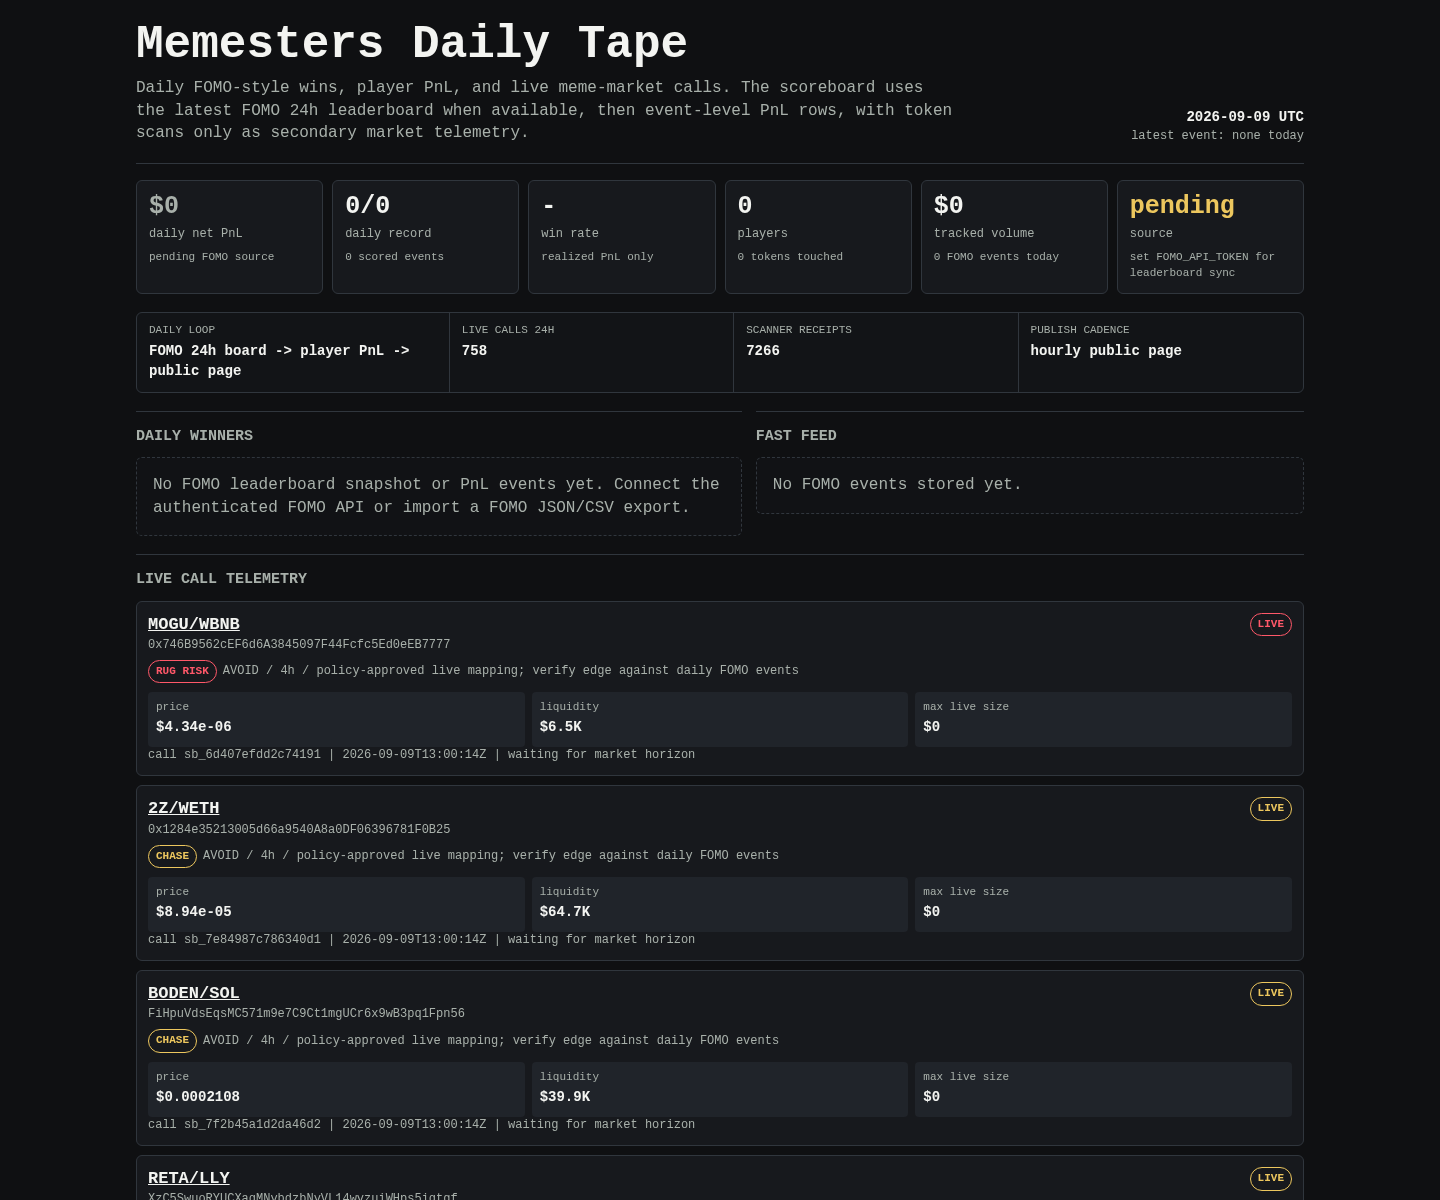
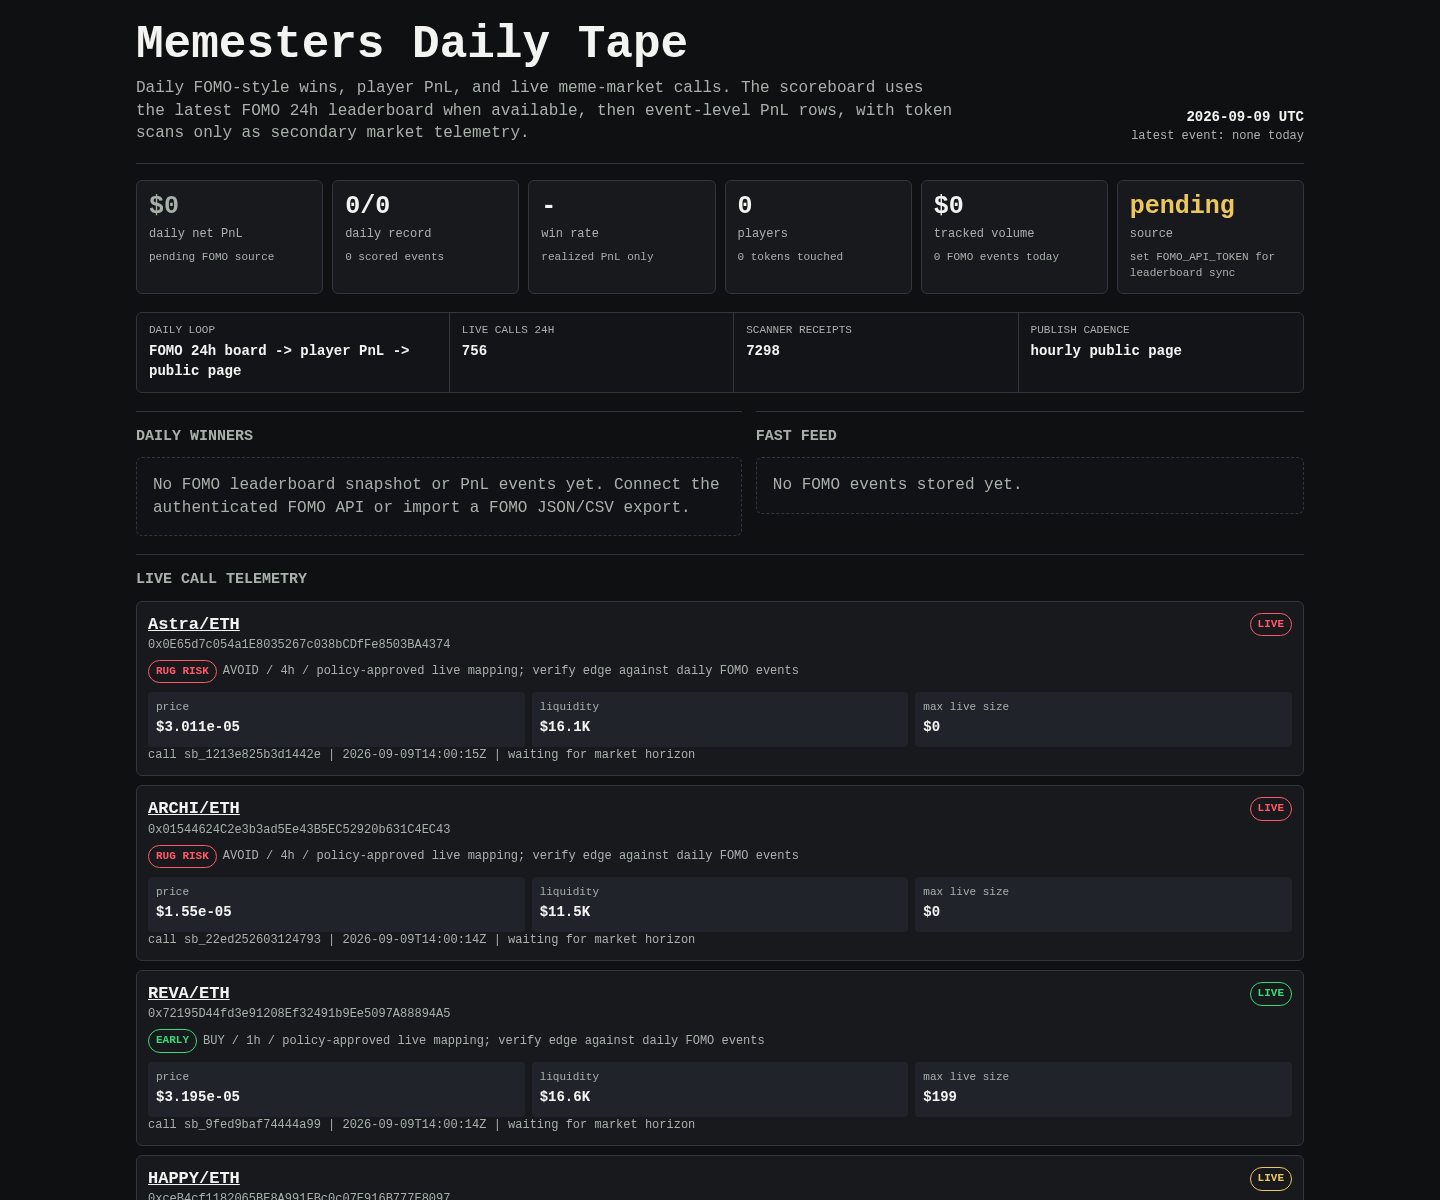
Update Memesters scoreboard

diff --git a/memesters/index.html b/memesters/index.html
@@ -149,8 +149,8 @@
 
     <div class="rail" aria-label="live operating loop">
       <div><span>daily loop</span><b>FOMO 24h board -> player PnL -> public page</b></div>
-      <div><span>live calls 24h</span><b>758</b></div>
-      <div><span>scanner receipts</span><b>7266</b></div>
+      <div><span>live calls 24h</span><b>756</b></div>
+      <div><span>scanner receipts</span><b>7298</b></div>
       <div><span>publish cadence</span><b>hourly public page</b></div>
     </div>
 
@@ -171,8 +171,8 @@
     <article class="receipt">
       <div class="receipt-head">
         <div>
-          <div class="pair"><a href="https://dexscreener.com/bsc/0x32f1d597d5a3c17e6c41710fa31e0a2638c52a3d">MOGU/WBNB</a></div>
-          <div class="addr">0x746B9562cEF6d6A3845097F44Fcfc5Ed0eEB7777</div>
+          <div class="pair"><a href="https://dexscreener.com/robinhood/0x939faa9b99349934a7dee094905e750098ba81e52dc74bdd609ae1e0c6857512">Astra/ETH</a></div>
+          <div class="addr">0x0E65d7c054a1E8035267c038bCDfFe8503BA4374</div>
           <div class="addr policy-line">
             <span class="badge rug-risk">RUG RISK</span>
             <span>AVOID / 4h / policy-approved live mapping; verify edge against daily FOMO events</span>
@@ -181,103 +181,19 @@
         <span class="badge rug-risk">LIVE</span>
       </div>
       <div class="receipt-grid">
-        <div class="kv"><span>price</span><b>$4.34e-06</b></div>
-        <div class="kv"><span>liquidity</span><b>$6.5K</b></div>
+        <div class="kv"><span>price</span><b>$3.011e-05</b></div>
+        <div class="kv"><span>liquidity</span><b>$16.1K</b></div>
         <div class="kv"><span>max live size</span><b>$0</b></div>
       </div>
-      <div class="outcomes">call sb_6d407efdd2c74191 | 2026-09-09T13:00:14Z | waiting for market horizon</div>
+      <div class="outcomes">call sb_1213e825b3d1442e | 2026-09-09T14:00:15Z | waiting for market horizon</div>
     </article>
     
 
     <article class="receipt">
       <div class="receipt-head">
         <div>
-          <div class="pair"><a href="https://dexscreener.com/robinhood/0x139afee9978730e8d632042bdb3a4f2f37e02c2d">2Z/WETH</a></div>
-          <div class="addr">0x1284e35213005d66a9540A8a0DF06396781F0B25</div>
-          <div class="addr policy-line">
-            <span class="badge chase">CHASE</span>
-            <span>AVOID / 4h / policy-approved live mapping; verify edge against daily FOMO events</span>
-          </div>
-        </div>
-        <span class="badge chase">LIVE</span>
-      </div>
-      <div class="receipt-grid">
-        <div class="kv"><span>price</span><b>$8.94e-05</b></div>
-        <div class="kv"><span>liquidity</span><b>$64.7K</b></div>
-        <div class="kv"><span>max live size</span><b>$0</b></div>
-      </div>
-      <div class="outcomes">call sb_7e84987c786340d1 | 2026-09-09T13:00:14Z | waiting for market horizon</div>
-    </article>
-    
-
-    <article class="receipt">
-      <div class="receipt-head">
-        <div>
-          <div class="pair"><a href="https://dexscreener.com/solana/9tyma5xeptvna5dceuq4dgepridybvdqoysvwcyvay6w">BODEN/SOL</a></div>
-          <div class="addr">FiHpuVdsEqsMC571m9e7C9Ct1mgUCr6x9wB3pq1Fpn56</div>
-          <div class="addr policy-line">
-            <span class="badge chase">CHASE</span>
-            <span>AVOID / 4h / policy-approved live mapping; verify edge against daily FOMO events</span>
-          </div>
-        </div>
-        <span class="badge chase">LIVE</span>
-      </div>
-      <div class="receipt-grid">
-        <div class="kv"><span>price</span><b>$0.0002108</b></div>
-        <div class="kv"><span>liquidity</span><b>$39.9K</b></div>
-        <div class="kv"><span>max live size</span><b>$0</b></div>
-      </div>
-      <div class="outcomes">call sb_7f2b45a1d2da46d2 | 2026-09-09T13:00:14Z | waiting for market horizon</div>
-    </article>
-    
-
-    <article class="receipt">
-      <div class="receipt-head">
-        <div>
-          <div class="pair"><a href="https://dexscreener.com/solana/6crl3ctfxnndxnkopwubzgmngqrpbvfcz9lwnmhuzydx">RETA/LLY</a></div>
-          <div class="addr">XzC5SwuoRYUCXaqMNybdzbNyVL14wyzuiWHps5iqtgf</div>
-          <div class="addr policy-line">
-            <span class="badge chase">CHASE</span>
-            <span>AVOID / 4h / policy-approved live mapping; verify edge against daily FOMO events</span>
-          </div>
-        </div>
-        <span class="badge chase">LIVE</span>
-      </div>
-      <div class="receipt-grid">
-        <div class="kv"><span>price</span><b>$0.0002019</b></div>
-        <div class="kv"><span>liquidity</span><b>$54.3K</b></div>
-        <div class="kv"><span>max live size</span><b>$0</b></div>
-      </div>
-      <div class="outcomes">call sb_fe8c2a524f854b87 | 2026-09-09T13:00:14Z | waiting for market horizon</div>
-    </article>
-    
-
-    <article class="receipt">
-      <div class="receipt-head">
-        <div>
-          <div class="pair"><a href="https://dexscreener.com/robinhood/0x496895d80f0b0d2a308fd4a28f77e14a851e72e9">BODEN/WETH</a></div>
-          <div class="addr">0x913672C00F309C83e56244e15c640d7fAB46a8Cb</div>
-          <div class="addr policy-line">
-            <span class="badge chase">CHASE</span>
-            <span>AVOID / 4h / policy-approved live mapping; verify edge against daily FOMO events</span>
-          </div>
-        </div>
-        <span class="badge chase">LIVE</span>
-      </div>
-      <div class="receipt-grid">
-        <div class="kv"><span>price</span><b>$0.0001445</b></div>
-        <div class="kv"><span>liquidity</span><b>$69.5K</b></div>
-        <div class="kv"><span>max live size</span><b>$0</b></div>
-      </div>
-      <div class="outcomes">call sb_34827cf8243d46c6 | 2026-09-09T13:00:14Z | waiting for market horizon</div>
-    </article>
-    
-
-    <article class="receipt">
-      <div class="receipt-head">
-        <div>
-          <div class="pair"><a href="https://dexscreener.com/robinhood/0x7000800fdb10f62261af474cc5fe2120ed293db4cb1dead28b72d4df2e685807">PRECRIME/SGOV</a></div>
-          <div class="addr">0x1fFA1f5A7529452f9564701416d6f445E5453341</div>
+          <div class="pair"><a href="https://dexscreener.com/robinhood/0x74beb3690144fb019be14ce6762842cb1c23d71fed677ace0f9918ee2c82f358">ARCHI/ETH</a></div>
+          <div class="addr">0x01544624C2e3b3ad5Ee43B5EC52920b631C4EC43</div>
           <div class="addr policy-line">
             <span class="badge rug-risk">RUG RISK</span>
             <span>AVOID / 4h / policy-approved live mapping; verify edge against daily FOMO events</span>
@@ -286,19 +202,40 @@
         <span class="badge rug-risk">LIVE</span>
       </div>
       <div class="receipt-grid">
-        <div class="kv"><span>price</span><b>$1.789e-05</b></div>
-        <div class="kv"><span>liquidity</span><b>$12.6K</b></div>
+        <div class="kv"><span>price</span><b>$1.55e-05</b></div>
+        <div class="kv"><span>liquidity</span><b>$11.5K</b></div>
         <div class="kv"><span>max live size</span><b>$0</b></div>
       </div>
-      <div class="outcomes">call sb_c8549881db0148e4 | 2026-09-09T13:00:14Z | waiting for market horizon</div>
+      <div class="outcomes">call sb_22ed252603124793 | 2026-09-09T14:00:14Z | waiting for market horizon</div>
     </article>
     
 
     <article class="receipt">
       <div class="receipt-head">
         <div>
-          <div class="pair"><a href="https://dexscreener.com/robinhood/0xe3ecc2a4bb6e9ba38061b72848504a01da10ee8c">HAMSTERUNITE/WETH</a></div>
-          <div class="addr">0xf2FFEC74Bfe331b143f0278CD03ECdc126D5cc5E</div>
+          <div class="pair"><a href="https://dexscreener.com/robinhood/0x016b0ca671c610b5e33d3a870fc19a4dd4fb8445d3910a98b808d90073f19166">REVA/ETH</a></div>
+          <div class="addr">0x72195D44fd3e91208Ef32491b9Ee5097A88894A5</div>
+          <div class="addr policy-line">
+            <span class="badge early">EARLY</span>
+            <span>BUY / 1h / policy-approved live mapping; verify edge against daily FOMO events</span>
+          </div>
+        </div>
+        <span class="badge early">LIVE</span>
+      </div>
+      <div class="receipt-grid">
+        <div class="kv"><span>price</span><b>$3.195e-05</b></div>
+        <div class="kv"><span>liquidity</span><b>$16.6K</b></div>
+        <div class="kv"><span>max live size</span><b>$199</b></div>
+      </div>
+      <div class="outcomes">call sb_9fed9baf74444a99 | 2026-09-09T14:00:14Z | waiting for market horizon</div>
+    </article>
+    
+
+    <article class="receipt">
+      <div class="receipt-head">
+        <div>
+          <div class="pair"><a href="https://dexscreener.com/robinhood/0x81e273e78e92c407cd8797cbca134963fb34e000e9522c092b7fe44ebe8c4f42">HAPPY/ETH</a></div>
+          <div class="addr">0xceB4cf1182065BE8A991FBc0c07E916B777E8097</div>
           <div class="addr policy-line">
             <span class="badge chase">CHASE</span>
             <span>AVOID / 4h / policy-approved live mapping; verify edge against daily FOMO events</span>
@@ -307,19 +244,19 @@
         <span class="badge chase">LIVE</span>
       </div>
       <div class="receipt-grid">
-        <div class="kv"><span>price</span><b>$0.0001135</b></div>
-        <div class="kv"><span>liquidity</span><b>$34.4K</b></div>
+        <div class="kv"><span>price</span><b>$0.0004031</b></div>
+        <div class="kv"><span>liquidity</span><b>$60.6K</b></div>
         <div class="kv"><span>max live size</span><b>$0</b></div>
       </div>
-      <div class="outcomes">call sb_a75b8332fbc44821 | 2026-09-09T13:00:14Z | waiting for market horizon</div>
+      <div class="outcomes">call sb_ab4ad554d9bf4e82 | 2026-09-09T14:00:14Z | waiting for market horizon</div>
     </article>
     
 
     <article class="receipt">
       <div class="receipt-head">
         <div>
-          <div class="pair"><a href="https://dexscreener.com/robinhood/0xcbe1c6e275c5ea662d00f5929ac21a89a6abc294ab360bb67a93dfad15eb6ce3">Safemars/WETH</a></div>
-          <div class="addr">0xAAb1e4AC954A06Ad7fdfd845760459F31f462Bcd</div>
+          <div class="pair"><a href="https://dexscreener.com/robinhood/0x2f04d6f69e0221e2eb8c755c2527a273f8e0b884">IRS/WETH</a></div>
+          <div class="addr">0xC8BC91460E8b6edd4437Dd4748a46ab2A0227777</div>
           <div class="addr policy-line">
             <span class="badge chase">CHASE</span>
             <span>AVOID / 4h / policy-approved live mapping; verify edge against daily FOMO events</span>
@@ -328,19 +265,19 @@
         <span class="badge chase">LIVE</span>
       </div>
       <div class="receipt-grid">
-        <div class="kv"><span>price</span><b>$1.267e-05</b></div>
-        <div class="kv"><span>liquidity</span><b>$12.4K</b></div>
+        <div class="kv"><span>price</span><b>$1.802e-05</b></div>
+        <div class="kv"><span>liquidity</span><b>$19.6K</b></div>
         <div class="kv"><span>max live size</span><b>$0</b></div>
       </div>
-      <div class="outcomes">call sb_18caedc9d3634734 | 2026-09-09T13:00:14Z | waiting for market horizon</div>
+      <div class="outcomes">call sb_2f5716b132314df4 | 2026-09-09T14:00:14Z | waiting for market horizon</div>
     </article>
     
 
     <article class="receipt">
       <div class="receipt-head">
         <div>
-          <div class="pair"><a href="https://dexscreener.com/base/0x2dc799e64239b07e56d13e8ddf85ecb295372d9d602afc0f272490857751293d">LARPTOP/ETH</a></div>
-          <div class="addr">0xB200000000000000000000398f572D8AabeFf301</div>
+          <div class="pair"><a href="https://dexscreener.com/bsc/0x056bc071162c54d1565e7a0a352bee8bff84f83e">YELLOW4/WBNB</a></div>
+          <div class="addr">0xb126CaF7BAA2222e2aE049295ad1BBe72d1AcF02</div>
           <div class="addr policy-line">
             <span class="badge chase">CHASE</span>
             <span>AVOID / 4h / policy-approved live mapping; verify edge against daily FOMO events</span>
@@ -349,19 +286,19 @@
         <span class="badge chase">LIVE</span>
       </div>
       <div class="receipt-grid">
-        <div class="kv"><span>price</span><b>$0.0001615</b></div>
-        <div class="kv"><span>liquidity</span><b>$47.6K</b></div>
+        <div class="kv"><span>price</span><b>$4.87e-05</b></div>
+        <div class="kv"><span>liquidity</span><b>$27.6K</b></div>
         <div class="kv"><span>max live size</span><b>$0</b></div>
       </div>
-      <div class="outcomes">call sb_4eeb007768314bce | 2026-09-09T12:45:13Z | waiting for market horizon</div>
+      <div class="outcomes">call sb_87b7e5e00a4b4a89 | 2026-09-09T14:00:14Z | waiting for market horizon</div>
     </article>
     
 
     <article class="receipt">
       <div class="receipt-head">
         <div>
-          <div class="pair"><a href="https://dexscreener.com/solana/6emxtnzramgdbe8du1rfknurpulmmrjjxyf9koxmgybk">BODEN/boden</a></div>
-          <div class="addr">3fhg8TWxJzM6iY9Ffz27w9jgw9Er8F244LE8G2fhEpMJ</div>
+          <div class="pair"><a href="https://dexscreener.com/solana/cdadqlmw53v3mfpe3yvcxjwkcf7qhnccynouhfv8jhhc">NOTHING/ZEC</a></div>
+          <div class="addr">28diRg5gxXVU15DtpRsMT1bpRVYkSkpoczB44nLHd57W</div>
           <div class="addr policy-line">
             <span class="badge chase">CHASE</span>
             <span>AVOID / 4h / policy-approved live mapping; verify edge against daily FOMO events</span>
@@ -370,11 +307,74 @@
         <span class="badge chase">LIVE</span>
       </div>
       <div class="receipt-grid">
-        <div class="kv"><span>price</span><b>$0.000192</b></div>
-        <div class="kv"><span>liquidity</span><b>$44.1K</b></div>
+        <div class="kv"><span>price</span><b>$2.277e-05</b></div>
+        <div class="kv"><span>liquidity</span><b>$16.2K</b></div>
         <div class="kv"><span>max live size</span><b>$0</b></div>
       </div>
-      <div class="outcomes">call sb_cd208ae9496842ed | 2026-09-09T12:45:13Z | waiting for market horizon</div>
+      <div class="outcomes">call sb_a790f32b245344da | 2026-09-09T14:00:14Z | waiting for market horizon</div>
+    </article>
+    
+
+    <article class="receipt">
+      <div class="receipt-head">
+        <div>
+          <div class="pair"><a href="https://dexscreener.com/solana/gli5tzoowukq3k4rbpwhconln8r16rn1aeq5eaccw7py">USELESSLAPTOP/SOL</a></div>
+          <div class="addr">9i8wN676UxL4LrgzikvyaojKdXFAVEStJwiRgi9upump</div>
+          <div class="addr policy-line">
+            <span class="badge early">EARLY</span>
+            <span>BUY / 1h / policy-approved live mapping; verify edge against daily FOMO events</span>
+          </div>
+        </div>
+        <span class="badge early">LIVE</span>
+      </div>
+      <div class="receipt-grid">
+        <div class="kv"><span>price</span><b>$6.795e-05</b></div>
+        <div class="kv"><span>liquidity</span><b>$20.5K</b></div>
+        <div class="kv"><span>max live size</span><b>$51</b></div>
+      </div>
+      <div class="outcomes">call sb_9695d7a3016d4b6a | 2026-09-09T14:00:14Z | waiting for market horizon</div>
+    </article>
+    
+
+    <article class="receipt">
+      <div class="receipt-head">
+        <div>
+          <div class="pair"><a href="https://dexscreener.com/robinhood/0x51d5b1869b3a406a66a4b2fe84843ab29632d511dd2e0f448a150509e894bfda">CLOCKERS/WETH</a></div>
+          <div class="addr">0xEFC067e5d19b847DA7863f3f997c2a4639686ba3</div>
+          <div class="addr policy-line">
+            <span class="badge chase">CHASE</span>
+            <span>AVOID / 4h / policy-approved live mapping; verify edge against daily FOMO events</span>
+          </div>
+        </div>
+        <span class="badge chase">LIVE</span>
+      </div>
+      <div class="receipt-grid">
+        <div class="kv"><span>price</span><b>$1.789e-06</b></div>
+        <div class="kv"><span>liquidity</span><b>$85.5K</b></div>
+        <div class="kv"><span>max live size</span><b>$0</b></div>
+      </div>
+      <div class="outcomes">call sb_374b07f5d28d4d46 | 2026-09-09T13:45:14Z | waiting for market horizon</div>
+    </article>
+    
+
+    <article class="receipt">
+      <div class="receipt-head">
+        <div>
+          <div class="pair"><a href="https://dexscreener.com/bsc/0x8906b4e4d3125d21fb4e7a4c0a5e81dbb767c199">myway/BNC4</a></div>
+          <div class="addr">0xD0837be1f1F211B1f98e8AC4c8f86b3B98f67777</div>
+          <div class="addr policy-line">
+            <span class="badge rug-risk">RUG RISK</span>
+            <span>AVOID / 4h / policy-approved live mapping; verify edge against daily FOMO events</span>
+          </div>
+        </div>
+        <span class="badge rug-risk">LIVE</span>
+      </div>
+      <div class="receipt-grid">
+        <div class="kv"><span>price</span><b>$2.399e-06</b></div>
+        <div class="kv"><span>liquidity</span><b>$4.5K</b></div>
+        <div class="kv"><span>max live size</span><b>$0</b></div>
+      </div>
+      <div class="outcomes">call sb_aa030587e4f94986 | 2026-09-09T13:45:14Z | waiting for market horizon</div>
     </article>
     
     </section>
